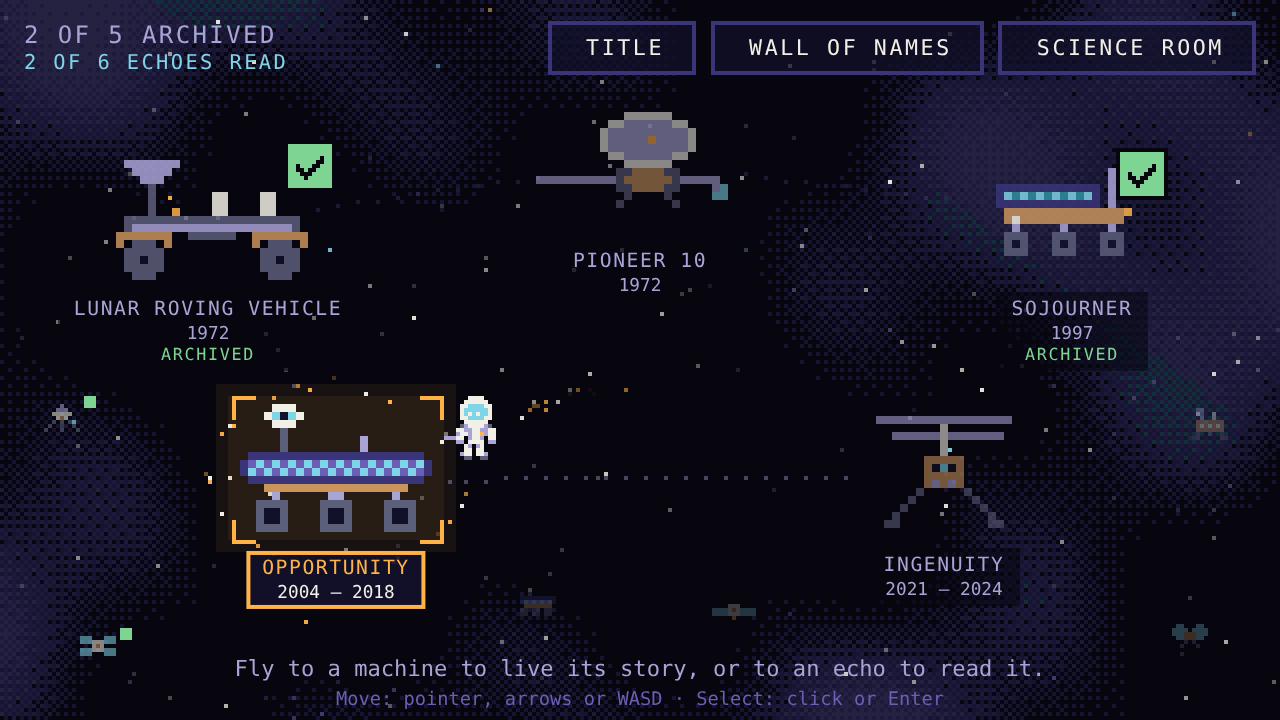
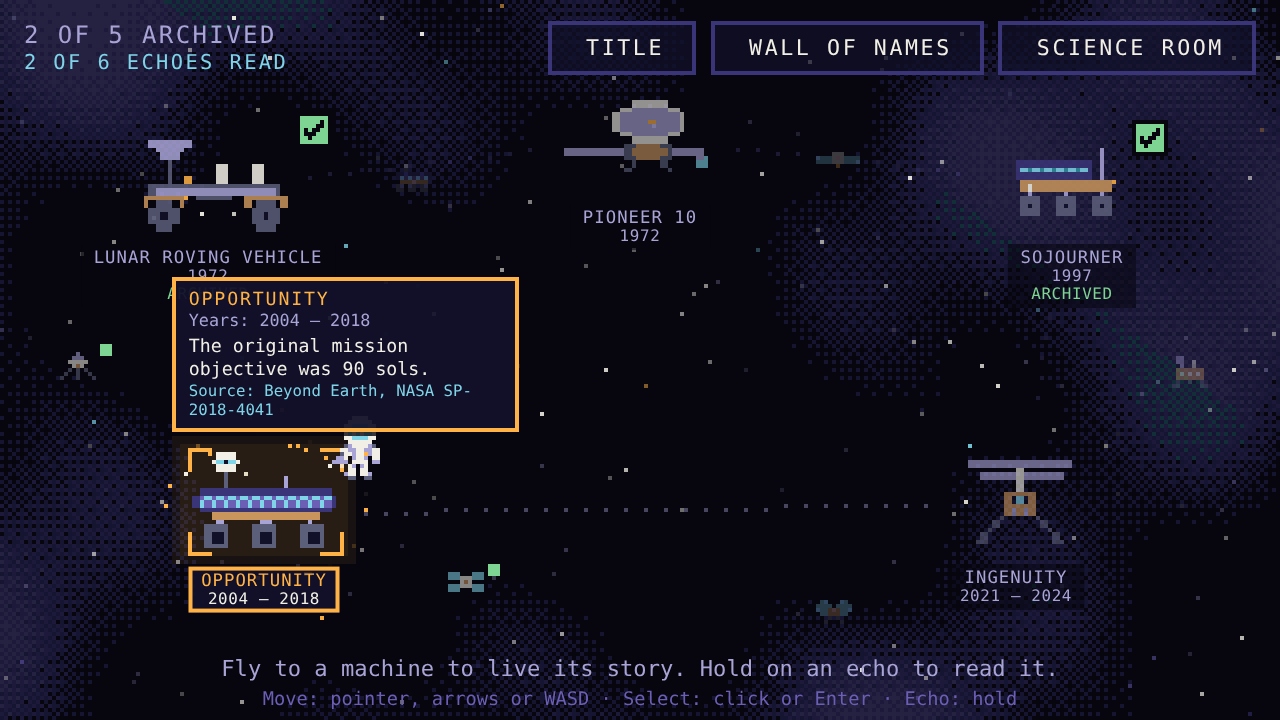
feat: add archive complete moment

diff --git a/js/scenes/hub.js b/js/scenes/hub.js
@@ -18,6 +18,7 @@ import { el, button, interactive } from '../engine/ui.js';
 import * as scenes from '../engine/scenes.js';
 import * as input from '../engine/input.js';
 import { sfx, drone } from '../engine/audio.js';
+import { save } from '../engine/storage.js';
 import { gameState, MACHINE_IDS, ECHO_IDS, completedCount, echoesRead, archiveComplete } from '../state.js';
 
 // ---------- layout (game pixels) ----------
@@ -265,13 +266,28 @@ export function renderWorld(hide = null) {
   stars.render(ox * 1.6, oy * 1.6);
   dust.render();
 
-  // Faint dotted lines between the machines.
+  // Faint dotted lines between the machines. They light up when all five stories are done.
   const shownAll = clamp(arrive * 2 - 0.8);
+  const complete = archiveComplete();
   for (const [a, b] of LINKS) {
     const pa = ghostPosition(a), pb = ghostPosition(b);
     const len = Math.hypot(pb.x - pa.x, pb.y - pa.y);
     const lit = aimed === a || aimed === b;
-    for (let d = 24; d < len - 24; d += 5) px(lerp(pa.x, pb.x, d / len), lerp(pa.y, pb.y, d / len), lit ? C.mist : C.violet, shownAll * (lit ? 0.4 : 0.22));
+    const march = complete && !still() ? (time * 10) % 5 : 0;        // light runs along the lines once complete
+    for (let d = 24 + march; d < len - 24; d += 5) {
+      px(lerp(pa.x, pb.x, d / len), lerp(pa.y, pb.y, d / len), complete ? C.amber : lit ? C.mist : C.violet, shownAll * (complete ? 0.75 : lit ? 0.4 : 0.22));
+    }
+  }
+  // Complete: the center of the Archive pulses with slow rings of light.
+  if (complete) {
+    for (let ring = 0; ring < 2; ring++) {
+      const k = still() ? 0.45 + ring * 0.3 : (time * 0.22 + ring * 0.5) % 1;
+      const radius = 8 + k * 46, steps = Math.round(18 + radius * 1.2);
+      for (let i = 0; i < steps; i++) {
+        const a = (i / steps) * Math.PI * 2;
+        px(HOME.x + Math.cos(a) * radius, HOME.y + Math.sin(a) * radius * 0.6, ring ? C.amber : C.green, shownAll * (1 - k) * 0.5);
+      }
+    }
   }
 
   // Echoes: smaller and dimmer than the machines, further from the center.
@@ -359,6 +375,9 @@ let leaving = false;
 let focused = null;                   // id of the ghost button that has keyboard focus
 let mode = 'idle';                    // 'pointer' | 'keys' | 'idle': who is steering
 let dash = null;                      // { id, t, from } she is dashing toward a selection
+let modal = false;                    // the "Archive is complete" card is open: the hub waits
+let completeAt = null;                // when to show that card (world time), or null
+let uiRoot = null;
 let idle = 0;
 let nextGesture = 'wave';
 const held = new Set();               // fly keys that are down
@@ -385,6 +404,7 @@ function cancelScan(source) {
 const HOLD_KEYS = ['Enter', ' '];
 
 function onKeyDown(e) {
+  if (modal) return;
   if (HOLD_KEYS.includes(e.key) && !leaving && !e.ctrlKey && !e.metaKey && !e.altKey) {
     // Enter or Space on a machine selects at once (as a normal button press);
     // on an echo it starts the scan and must be held.
@@ -502,7 +522,7 @@ function infoCard(id, b) {
   b.setAttribute('aria-describedby', card.id);
 }
 
-function buildUI(ui, celebrate) {
+function buildUI(ui) {
   const top = el('div', 'hub-top');
   const n = completedCount();
   const progress = el('p', 'hub-progress');
@@ -516,7 +536,7 @@ function buildUI(ui, celebrate) {
     button(t('hub.title'), () => scenes.go('title'), 'small', 'back'),
     button(t('hub.wall'), () => scenes.go('wall'), 'small'),
     // The Science Room is highlighted once all five machines are archived.
-    button(t(allDone ? 'hub.science' : 'hub.leave'), () => scenes.go('science'), allDone ? 'small primary' : 'small'),
+    button(t('hub.leave'), () => scenes.go('science'), allDone ? 'small primary' : 'small'),
   );
 
   const field = el('div', 'hub-field');
@@ -537,24 +557,66 @@ function buildUI(ui, celebrate) {
   }
 
   const bottom = el('div', 'hub-bottom');
-  const complete = archiveComplete();
-  dom.hint = el('p', 'hub-hint', t(complete ? 'hub.completeHint' : allDone ? 'hub.allDone' : 'hub.hint'));
+  const everything = allDone && echoesRead() === ECHO_IDS.length;
+  dom.hint = el('p', 'hub-hint', t(everything ? 'hub.completeHint' : allDone ? 'hub.allDone' : 'hub.hint'));
   bottom.append(dom.hint, el('p', 'hub-controls', t('hub.controls')));
   ui.append(top, field, bottom);
+  dom.field = field;
+  dom.top = top;
 
-  // Everything archived and every echo read: the "Archive complete" stamp.
-  if (complete) {
-    const stamp = el('p', `archive-stamp${celebrate ? ' land' : ''}`, t('hub.complete'));
-    ui.append(stamp);
-    if (celebrate) {
-      setTimeout(() => { if (stamp.isConnected) { sfx('stamp'); sfx('success'); shake.add(2); } }, still() ? 0 : 900);
-    }
+  // All five stories done: the progress block says so from then on.
+  if (allDone) {
+    dom.stamp = el('span', 'hub-complete', t('hub.complete'));
+    progress.append(dom.stamp);
   }
+}
+
+// The "Archive is complete" moment, shown once: a card with a short recap of
+// what the player learned (one verified fact per machine, the same ones as on
+// the hub cards). It is remembered in the saved game.
+function showComplete(ui) {
+  modal = true;
+  held.clear();
+  scan = null;
+  gameState.archiveSeen = true;
+  save();
+  sfx('stamp');
+  sfx('success');
+  shake.add(2);
+  dom.stamp?.classList.add('land');
+
+  const card = el('section', 'panel complete');
+  card.setAttribute('role', 'dialog');
+  card.setAttribute('aria-label', t('hub.complete'));
+  const list = el('ul', 'facts');
+  MACHINE_IDS.forEach((id, i) => {
+    const m = machines[id];
+    const facts = visibleFacts(m.debrief);
+    const fact = facts.includes(m.debrief[m.cardFact]) ? m.debrief[m.cardFact] : facts[0];
+    if (!fact) return;
+    const item = el('li', 'fact');
+    item.style.animationDelay = `${0.3 + i * 0.16}s`;
+    item.append(el('span', 'recap-name', t(m.name)), el('span', 'fact-text', t(fact.textKey)));
+    list.append(item);
+  });
+  const close = () => {
+    card.remove();
+    dom.field.inert = dom.top.inert = false;
+    modal = false;
+  };
+  const stay = button(t('complete.stay'), close, 'small');
+  const room = button(t('hub.science'), () => scenes.go('science'), 'small primary');
+  const row = el('div', 'sci-nav');
+  row.append(stay, room);
+  card.append(el('h2', 'panel-title', t('hub.complete')), el('p', 'complete-intro', t('complete.intro')), list, row);
+  ui.append(card);
+  dom.field.inert = dom.top.inert = true;
+  room.focus({ preventScroll: true });
 }
 
 export default {
   // params.arriving: coming from the intro. params.justCompleted: a machine id
-  // to stamp. params.justRead: an echo that was just read. params.focus: what to aim at.
+  // to stamp. params.focus: what to aim at.
   enter(params, ui) {
     leaving = false;
     dash = null;
@@ -569,7 +631,12 @@ export default {
     if (params.arriving) Object.assign(astro, { x: HOME.x, y: HOME.y, vx: 0, vy: 0 });
     if (params.justCompleted) pendingStamp = { id: params.justCompleted, at: time + 0.45 };
     // The big stamp lands when the last machine or the last echo completes the Archive.
-    buildUI(ui, !!(params.justCompleted || params.justRead));
+    buildUI(ui);
+    // The first time all five stories are done: the "Archive is complete" moment,
+    // a little after the last stamp has landed.
+    modal = false;
+    completeAt = archiveComplete() && !gameState.archiveSeen ? time + (params.justCompleted ? 1.7 : 0.9) : null;
+    uiRoot = ui;
     if (params.arriving) {
       dom.hint.textContent = t('hub.arrive');
       setTimeout(() => { if (dom.hint.isConnected) dom.hint.textContent = t('hub.hint'); }, 4500);
@@ -584,7 +651,7 @@ export default {
     }
     drone(true);
     offInput = input.on((a) => {
-      if (leaving) return;
+      if (leaving || modal) return;
       if (a.type === 'pointer' || (a.type === 'confirm' && a.fromPointer)) { mode = 'pointer'; idle = 0; gesture = null; }
       if (a.type === 'confirm') {
         const target = findAim();
@@ -637,6 +704,12 @@ export default {
       }
       return;
     }
+
+    if (completeAt !== null && time >= completeAt && !leaving) {
+      completeAt = null;
+      showComplete(uiRoot);
+    }
+    if (modal) { updateWorld(dt); return; }
 
     // Steering: keys give thrust, the pointer pulls her like a soft spring.
     let control = null;

diff --git a/css/style.css b/css/style.css
@@ -815,3 +815,18 @@ a.source-title { color: var(--amber); }
 .card-years { font-size: 0.92em; color: var(--mist); }
 .card-fact { margin-top: 0.2em; }
 .ghost-card .fact-source { font-size: 0.86em; }
+
+/* ---------- hub: the "Archive is complete" moment ---------- */
+.complete { width: 84%; max-height: 92%; padding: 0.7em 1.2em 0.8em; gap: 0.3em; z-index: 6; border-color: #7ed492; }
+.complete .panel-title { margin: 0; color: #7ed492; }
+.complete-intro { margin: 0 0 0.2em; text-align: center; color: var(--mist); }
+.complete .facts { overflow-y: auto; gap: 0.25em; }
+.complete .fact { font-size: 0.86em; line-height: 1.25; }
+.complete .fact::before { color: #7ed492; }
+.recap-name { margin-right: 0.6em; letter-spacing: 0.08em; text-transform: uppercase; color: var(--amber); }
+.archive-stamp { top: 52%; font-size: 0.9em; opacity: 0.9; }
+.archive-stamp.land { animation-delay: 0s; }
+
+.hub-complete { font-size: 0.85em; color: #7ed492; letter-spacing: 0.08em; transform-origin: left center; }
+.hub-complete.land { animation: complete-pop 0.6s cubic-bezier(.2, .9, .3, 1.4) both; }
+@keyframes complete-pop { from { opacity: 0; transform: scale(1.8); } to { opacity: 1; transform: scale(1); } }

diff --git a/js/state.js b/js/state.js
@@ -22,12 +22,13 @@ export const gameState = {
   completed: { lrv: false, pioneer10: false, sojourner: false, opportunity: false, ingenuity: false },
   stars: { lrv: 0, pioneer10: 0, sojourner: 0, opportunity: 0, ingenuity: 0 },
   echoes: { surveyor3: false, viking1: false, near: false, insight: false, spirit: false, dawn: false },   // read or not
+  archiveSeen: false,               // the "Archive is complete" moment has been shown
 };
 
 export const completedCount = () => MACHINE_IDS.filter((id) => gameState.completed[id]).length;
 export const echoesRead = () => ECHO_IDS.filter((id) => gameState.echoes[id]).length;
-// The Archive is complete when every machine is done and every echo is read.
-export const archiveComplete = () => completedCount() === MACHINE_IDS.length && echoesRead() === ECHO_IDS.length;
+// The Archive is complete when all five stories are done. (Echoes are extra reading.)
+export const archiveComplete = () => completedCount() === MACHINE_IDS.length;
 
 // Push the settings into the page: CSS reads these classes, and canvas effects
 // read gameState.settings.reducedMotion directly. Also refreshes the page-level

diff --git a/js/scenes/echo.js b/js/scenes/echo.js
@@ -14,9 +14,9 @@ import * as scenes from '../engine/scenes.js';
 import * as input from '../engine/input.js';
 import { sfx, drone } from '../engine/audio.js';
 import { save } from '../engine/storage.js';
-import { gameState, ECHO_IDS, archiveComplete } from '../state.js';
+import { gameState, ECHO_IDS } from '../state.js';
 
-let echo, time, leaving, wasComplete, offInput;
+let echo, time, leaving, offInput;
 const stars = new Starfield(100, 61);
 const motes = new Particles(60);
 
@@ -26,8 +26,7 @@ const cited = (fact) => fact.sourceIds.every((id) => SOURCES[id] && !SOURCES[id]
 function back() {
   if (leaving) return;
   leaving = true;
-  // justRead lets the hub play the "Archive complete" stamp if this echo was the last piece.
-  scenes.go('hub', { focus: echo.id, justRead: !wasComplete && archiveComplete() ? echo.id : null });
+  scenes.go('hub', { focus: echo.id });
 }
 
 export default {
@@ -35,7 +34,6 @@ export default {
     echo = echoes[ECHO_IDS.includes(params.id) ? params.id : ECHO_IDS[0]];
     time = 0;
     leaving = false;
-    wasComplete = archiveComplete();
     gameState.echoes[echo.id] = true;
     save();
 

diff --git a/js/engine/storage.js b/js/engine/storage.js
@@ -22,6 +22,7 @@ export function load() {
       gameState.stars[id] = Number(saved.stars?.[id]) || 0;
     }
     for (const id of ECHO_IDS) gameState.echoes[id] = saved.echoes?.[id] === true;
+    gameState.archiveSeen = saved.archiveSeen === true;
   } catch {
     // Storage not available: keep the defaults.
   }
@@ -42,5 +43,6 @@ export function resetProgress() {
     gameState.stars[id] = 0;
   }
   for (const id of ECHO_IDS) gameState.echoes[id] = false;
+  gameState.archiveSeen = false;
   save();
 }

diff --git a/js/data/content.en.js b/js/data/content.en.js
@@ -79,7 +79,9 @@ export const strings = {
   'hub.cardYears': 'Years: {y}',
   'hub.echo': 'Echo',
   'hub.wall': 'Wall of Names',
-  'hub.complete': 'Archive complete',
+  'hub.complete': 'The Archive is complete',
+  'complete.intro': 'You lived five real stories. This is what you learned:',
+  'complete.stay': 'Stay in the Archive',
   'hub.completeHint': 'Every story is archived and every echo is read.',
   'hub.science': 'Enter the Science Room',
   'hub.leave': 'Science Room',

diff --git a/js/data/content.es.js b/js/data/content.es.js
@@ -356,7 +356,9 @@ export const strings = {
   'hub.cardYears': 'Años: {y}',
   'hub.echo': 'Eco',
   'hub.wall': 'Muro de Nombres',
-  'hub.complete': 'Archivo completo',
+  'hub.complete': 'El Archivo está completo',
+  'complete.intro': 'Viviste cinco historias reales. Esto es lo que aprendiste:',
+  'complete.stay': 'Quedarme en el Archivo',
   'hub.completeHint': 'Todas las historias están archivadas y todos los ecos leídos.',
 
   // --- Ecos ---

diff --git a/README.md b/README.md
@@ -40,7 +40,7 @@ More screenshots are in the screenshots folder.
 - Science Room: open it from The Archive (the button at the top, or "Enter the Science Room" when all five machines are archived). Credits and sources are on the title screen and inside the Science Room. Options are also available from the Pause menu in every mini-game.
 - Echoes: six smaller, dimmer machines drift around The Archive (Surveyor 3, Viking 1, NEAR Shoemaker, InSight, Spirit and Dawn). Aim at one and hold the click, the tap or Enter for half a second to scan it and read its fact card. Read echoes are saved.
 - Wall of Names: a button in The Archive opens a list of the other official challenge resources, each with its official one-line description.
-- When all five machines are archived and all six echoes are read, an "Archive complete" stamp appears.
+- When all five stories are done, the lines between the machines light up, the center pulses, and a card shows "The Archive is complete" with a short recap of what you learned.
 
 ## The five machines
 
